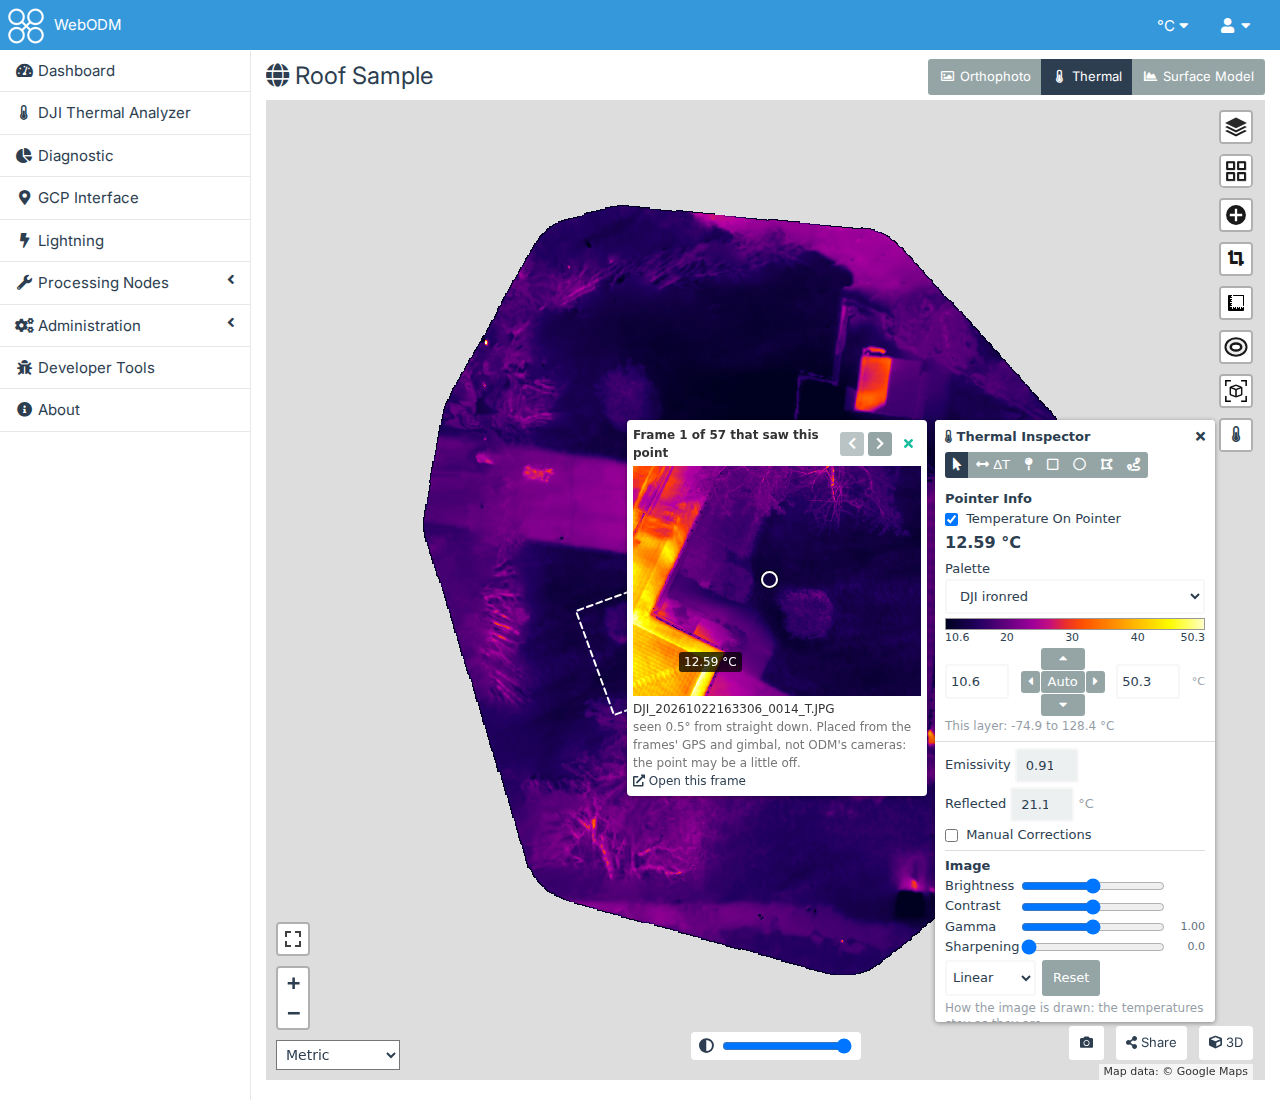
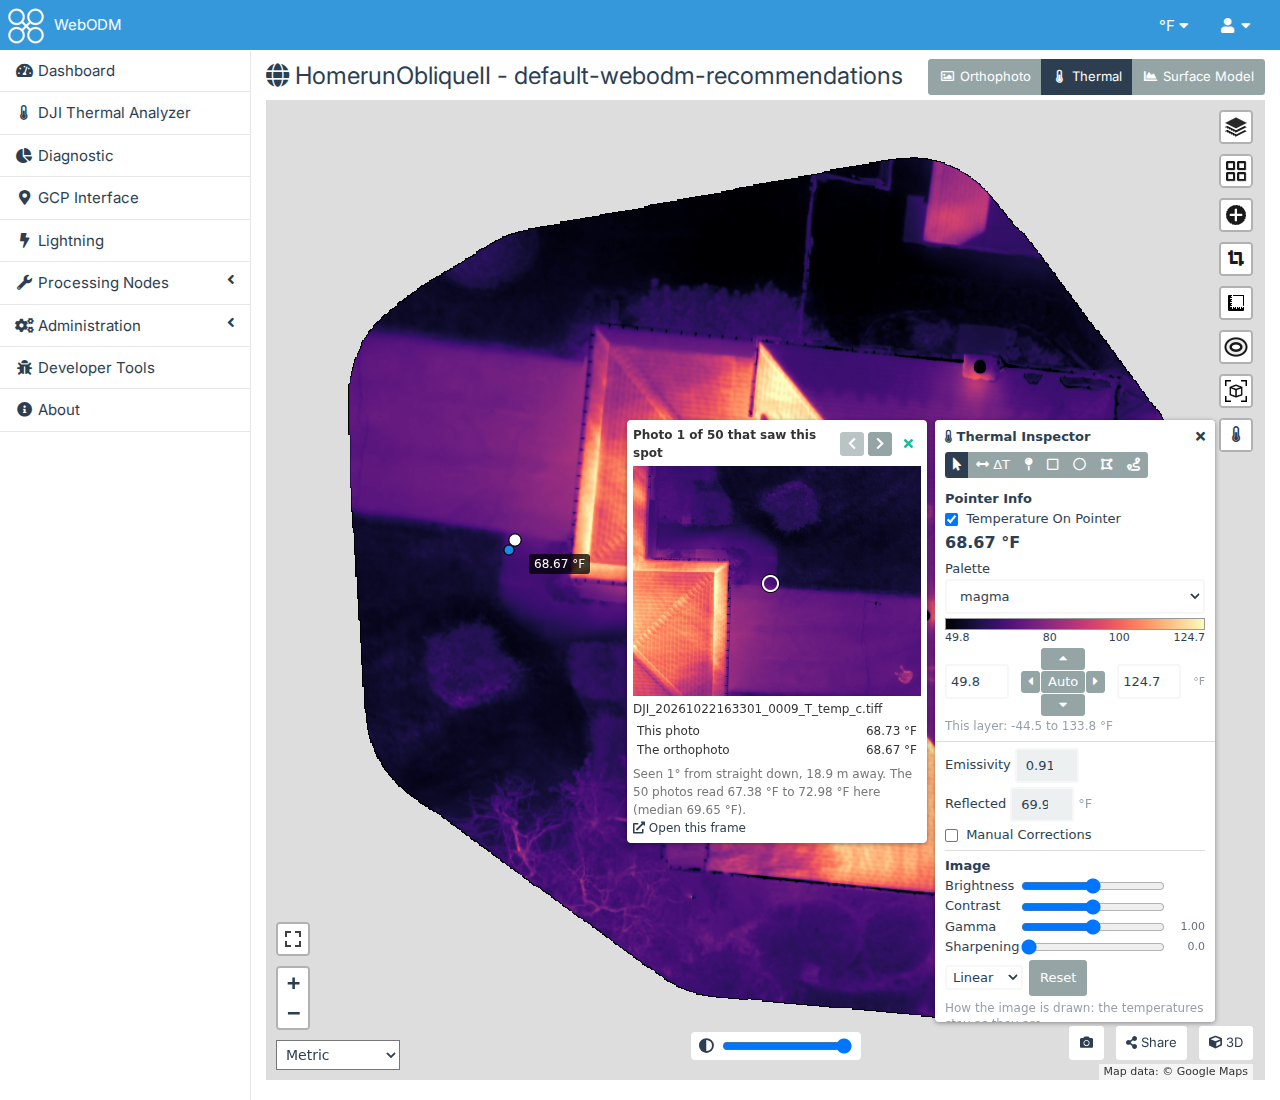
Docs: the map's photos window on a thermal orthophoto (README, the Inspector's quickstart and its screenshot, the API, the developers' guide)
The window's reading and its note each on their own line, so Open this frame is too.

diff --git a/dev/screenshots.js b/dev/screenshots.js
@@ -401,16 +401,18 @@ const SHOTS = {
         return p;
     },
     "inspector-frames": async (p, env) => {
-        // The frames that saw a point clicked on the map's thermal orthophoto (its task processed from a workset)
+        // The task's photos that saw a point clicked on the map's thermal orthophoto (ODM's cameras and surface model)
         await p.setViewportSize({width: SIZE.width, height: 1100});    // room for the window, down to Open this frame
         await p.goto(env.url + need(env, "DT_DOCS_MAP"));
         await p.waitForSelector(".dt-inspector-button", {timeout: 30000});
         await p.waitForTimeout(3000);
         await p.click(".dt-inspector-button");
         const map = await p.locator(".leaflet-container").first().boundingBox();
-        await p.mouse.click(map.x + map.width * 0.4, map.y + map.height * 0.55);
-        await p.waitForSelector(".dt-inspector-frames:not([hidden]) img", {timeout: 30000})
-            .catch(() => { throw new Error("no source frames: is DT_DOCS_MAP's task processed from a workset with mosaics?"); });
+        await p.mouse.click(map.x + map.width * 0.25, map.y + map.height * 0.45);   // left of the window: its marks show
+        const drawn = p.waitForResponse((r) => /\/inspector\/frames\/\d+\/values/.test(r.url()), {timeout: 60000});
+        await p.waitForSelector(".dt-inspector-frames:not([hidden]) canvas", {timeout: 30000})
+            .catch(() => { throw new Error("no photos window: has DT_DOCS_MAP's task ODM's cameras and a surface model?"); });
+        await drawn;
         await p.waitForTimeout(2000);
         return p;
     },

diff --git a/dji-thermal/public/frames3d.js b/dji-thermal/public/frames3d.js
@@ -114,9 +114,9 @@
             '<table class="table table-condensed dt-frames3d-figures"><tbody>' + rows.map(function (r) {
                 return "<tr><td>" + escapeHtml(r[0]) + '</td><td class="text-right">' + escapeHtml(r[1]) + "</td></tr>";
             }).join("") + "</tbody></table>" +
-            '<span class="ta-message">Seen ' + escapeHtml(angle) + ", " + Number(f.distance).toFixed(1) + " m away." +
+            '<div class="ta-message">Seen ' + escapeHtml(angle) + ", " + Number(f.distance).toFixed(1) + " m away." +
             (s && s.count > 1 ? " The " + s.count + " photos read " + escapeHtml(format(s.low)) + " to " + escapeHtml(format(s.high)) +
-                " here (median " + escapeHtml(format(s.median)) + ")." : "") + "</span>" + hiddenNote +
+                " here (median " + escapeHtml(format(s.median)) + ")." : "") + "</div>" + hiddenNote +
             (page ? '<a href="' + escapeHtml(page) + '" target="_blank" rel="noopener" data-pip="open" ' +
                 'title="The frame on its own page in the Analyzer: measure it, or measure it again with other parameters">' +
                 '<i class="fa fa-external-link-alt"></i> Open this frame</a>' : "") + "</div>";

diff --git a/docs/developing.md b/docs/developing.md
@@ -31,7 +31,7 @@ Everything the plugin ships is in `dji-thermal/` (the plugin's id, and the relea
 | `colouring.py` | How tiles and frames are drawn: range, gamma's curve, Banded's bands (`stepped=`), sharpening, isotherm. |
 | `frames.py`, `frames_api.py` | The frame page: one frame as the workset measured it, or measured again with other values. |
 | `conversion_tasks.py` | A WebODM task made from a workset's temperature TIFFs. |
-| `inspector.py`, `inspector_api.py` | The Thermal Inspector's reads of a task's thermal orthophoto (a point, a region, a line, tiles), and the workset mosaics it can lay on the map. |
+| `inspector.py`, `inspector_api.py` | The Thermal Inspector's reads of a task's thermal orthophoto (a point, a region, a line, tiles, the photos that saw a point: `frames3d.py`), and the workset mosaics it can lay on the map. |
 | `measurements.py` | Saved measurements (pins, regions, lines), kept with the task or the workset. |
 | `model3d.py`, `model3d_api.py`, `frames3d.py` | The 3D Thermal Inspector's reads of a task's textured model: which temperature TIFF is each of the GLB's materials, their values, the task's saved pins in the model's coordinates, and the photos that saw a point of it (see [The 3D view](#the-3d-view)). |
 | `correction.py` | The approximate correction for another emissivity and reflected temperature. |
@@ -70,8 +70,9 @@ Keep the work in plain functions that take data and return HTML strings or value
 | `regions.js` | Drawing shapes on a Leaflet map, and the measuring tools' list (`TOOLS`). |
 | `split.js`, `split.css` | A divider on a Leaflet map showing layers on one side of it, upright or across (the overlays' Swipe in the Inspector). Shared: it needs only Leaflet and knows nothing of this plugin, so another WebODM plugin can take both files as they are; its API is in its header (`create(L, map, opts)`, `add(layer, side)`, `turn()`, `on("change")`, the exported `clip`). TweakUI copies both files as they are: a change here is copied there. A plugin using it tells WebODM's split event (`sideBySideChanged(layer, true)` then `false`) each time its divider starts, and ends its own when it hears another's, so the dividers take turns. |
 | `scale.js`, `recolour.js`, `frames.js` | Shared by the mosaic viewer and the Inspector: colour scales, the range's D-pad and the Image controls, tiles coloured in the browser (each value tile fetched once for the layers drawn from it), and the window of the frames that saw a point. |
+| `frames3d.js` | The window of a task's own photos that saw a point, placed with ODM's cameras: for a thermal orthophoto on the map, and for the model on the 3D page (see [The 3D view](#the-3d-view)). |
 | `picture_viewer.js` | The full-page picture viewer. |
-| `mesh_index.js`, `model3d.js`, `pointcloud3d.js`, `pointcloud3d_worker.js`, `frames3d.js`, `inspector3d.js` | The 3D Thermal Inspector on WebODM's 3D page (see [The 3D view](#the-3d-view)). |
+| `mesh_index.js`, `model3d.js`, `pointcloud3d.js`, `pointcloud3d_worker.js`, `inspector3d.js` | The 3D Thermal Inspector on WebODM's 3D page (see [The 3D view](#the-3d-view)). |
 | `thermal/` | DJI Thermal Task's panel and the project page's workset progress: JSX and ES modules, built by WebODM's webpack into `public/build/` (untracked). |
 
 The pages' HTML is in `templates/`, and their styles in `analyzer.css`, `frames.css`, `inspector.css` and
@@ -86,14 +87,14 @@ temperatures themselves are in the float textures beside the OBJ (`odm_texturing
 | File | What it does |
 | --- | --- |
 | `model3d.py` | Which texture is each of the GLB's materials (the OBJ's first `usemtl` order, checked against the GLB's image sizes), their values (ODM's 0.0 fill between patches is no data; each material's PNG kept in `thermal/model3d/` by the textures' version), the model's range (cached in `thermal/model3d.json` by the textures' version), and the saved 2D pins in the model's coordinates. |
-| `frames3d.py` | The photos that saw a point: ODM's refined cameras (`odm_report/shots.geojson`, `cameras.json`), a point projected into each photo as OpenSfM does (`project`: the `brown` and `perspective` lenses), each photo's temperature at its pixel, ranked by the angle from the surface's normal; and, for a task made from a workset, each photo's frame in the dataset. |
+| `frames3d.py` | The photos that saw a point: ODM's refined cameras (`odm_report/shots.geojson`, `cameras.json`), a point projected into each photo as OpenSfM does (`project`: the `brown` and `perspective` lenses), each photo's temperature at its pixel, ranked by the angle from the surface's normal; and, for a task made from a workset, each photo's frame in the dataset. For a point of the 2D map (`frames_on_map`): its height from the surface model (`odm_dem/dsm.tif`, a window of it), the photos ranked from straight down, those the surface hides left out by a line of sight over it (`sight_blocked`, `SIGHT_CLEARANCE`) and counted. |
 | `model3d_api.py` | `inspector/model`, `.../model/<index>/values` (the 2D map's value tiles, one per material), `.../model/saved`, `.../model/frames` and `.../model/frames/<index>/values`. |
 | `main.js` | `PluginsAPI.ModelView.addActionButton`: loads `NAMES` and `NAMES_3D` (`DjiThermal3DScripts`) and the stylesheets (`inspector.css`, `frames.css`, `inspector3d.css`), then `ThermalInspector3D.create(viewer)`; the thermometer button once it resolves. The hook answers at once, with no dependencies: WebODM keeps only the first plugin's answer. |
 | `inspector3d.js` | The panel, the tools (`TOOLS`, `TOOL_ORDER`), the measurements (in `localStorage`) and their markers (DOM elements and SVG lines, placed over the view each frame). It reuses `inspector.js`'s exported helpers for the colour scale, Image, Manual Corrections, the isotherm and the legend. |
 | `model3d.js` | The model as a **source**: fetches each material's values, finds WebODM's model in the scene (`findModel`, `matchMaterials`) and gives it a canvas texture in the palette; reads a hit's temperature (`reading`). On the point cloud view, it loads its own copy of WebODM's smallest GLB, for its shapes only (`meshes()`). |
 | `mesh_index.js` | A bounding-volume tree over the model's triangles (`build`): `raycast` (where the pointer meets the model) and `closest` (the nearest surface to a point). Runs in a page or a worker. |
 | `pointcloud3d.js`, `pointcloud3d_worker.js` | The point cloud as a source: each node Potree loads goes to the worker, which finds every point's nearest model surface within `LIMIT` (25 cm) and answers its material and texture coordinates; the points are then coloured from the model's values, and restyled without asking again. A node's points are placed as Potree places them (`nodeMatrix`: the cloud's matrix times the node's own), never with three.js's `updateMatrixWorld`, which would add its parents' positions again. |
-| `frames3d.js` | The photos that saw a spot, beside the panel (the 2D source frames window's markup and `frames.css`): leaves out those the model hides the spot from (`hidden`: a ray from just off the surface to the camera, with `MeshIndex.raycast`), shows each in the palette from its values with a crosshair, and what all of them read there (`spread`). Its camera is marked in the view by `inspector3d.js`. |
+| `frames3d.js` | The photos that saw a spot, beside the panel (the 2D source frames window's markup and `frames.css`): leaves out those the model hides the spot from (`hidden`: a ray from just off the surface to the camera, with `MeshIndex.raycast`), shows each in the palette from its values with a crosshair, and what all of them read there (`spread`). Its camera is marked in the view by `inspector3d.js`. `inspector.js` makes the same window for a point of a thermal orthophoto on the map, with its own URLs and words (`create`'s `framesUrl`, `valuesUrl`, `words`): there the server leaves the hidden photos out. |
 
 How a hover becomes a temperature: `inspector3d.spotAt` casts a ray from the pointer with `MeshIndex.raycast` (on the
 point cloud: the point Potree picks, then `MeshIndex.closest`), which gives the hit's material and texture

diff --git a/docs/quickstart-inspector.md b/docs/quickstart-inspector.md
@@ -159,19 +159,35 @@ has no thermal orthophoto but another in the project does, the Inspector's butto
 
 ## 6. The frames that saw a point
 
-On a workset mosaic, or on the orthophoto of a task processed from a workset whose mosaics are built, a click in
-**Hover** opens the frames that saw that point, beside the panel. Dropping a pin, or clicking a pin's name in the
-panel, opens them too.
+On a thermal orthophoto or a workset mosaic, a click in **Hover** opens the photos that saw that point, beside the
+panel. Dropping a pin, or clicking a pin's name in the panel, opens them too.
 
-![The frames that saw a point clicked on a thermal orthophoto processed from a workset](images/inspector-frames.png)
+![The photos that saw a point clicked on a thermal orthophoto](images/inspector-frames.png)
 
-- The frame is drawn in the layer's palette and range, with a circle on the point; its outline is dashed on the map.
-- The arrows step through every frame that saw the point. On a mosaic, the frame its pixel came from is first. On an
-  orthophoto, ODM blended the frames, so they start with the one that saw the point closest to straight down.
-- On an orthophoto the frames are placed with the workset's camera models, from their GPS and gimbal, not the cameras
-  ODM refined: the point can be a little off.
-- **Open this frame** opens the frame on its own page in the Analyzer, in a new tab, to measure it in its pixels or
-  measure it again with other values: see [One frame at a time](quickstart-worksets.md#one-frame-at-a-time).
+On a thermal orthophoto, they are the task's own photos, placed with the cameras ODM refined when it processed the
+task, at the height of the task's surface model, so the circle is on the very pixel:
+
+- The photo is drawn in the orthophoto's palette, range and Image settings, with a circle on the point. On the map,
+  the point is marked, with a dashed line to where the photo shown was taken from.
+- Below it: **This photo**'s temperature at the point, **The orthophoto**'s (ODM blended it from several photos),
+  how far from straight down and from how far the photo saw the point, and what all the photos read there (lowest,
+  highest and median). Manual Corrections apply to them all.
+- The arrows step through every photo that saw the point, starting with the one closest to straight down.
+- Photos that had the point in view but from which the surface hides it (behind a roof's edge, a wall, a tree) are
+  left out, and the window says how many.
+- **Open this frame**, when the task was processed from a workset's TIFFs, opens the frame on its own page in the
+  Analyzer, in a new tab, to measure it in its pixels or measure it again with other values: see
+  [One frame at a time](quickstart-worksets.md#one-frame-at-a-time).
+
+A task processed without a surface model (ODM's `dsm` option off) or without ODM's cameras can't place its photos so:
+if it was processed from a workset whose mosaics are built, the window shows the workset's frames instead, placed
+from their GPS and gimbal (the point can be a little off, and the window says so); otherwise the click is WebODM's.
+
+On a workset mosaic, the window is the mosaic viewer's: the workset's frames drawn in the mosaic's palette and range,
+the frame the mosaic's pixel came from first, each one's outline dashed on the map, and **Open this frame**.
+
+On both:
+
 - Drag it by its heading to move it on its own: it stays where you drop it, even as the panel moves, until it's
   closed. Opened again, it's beside the panel.
 - The cross closes the window; closing the Inspector closes it too.

diff --git a/docs/api.md b/docs/api.md
@@ -68,8 +68,10 @@ On a task with a thermal orthophoto, under `projects/<project>/tasks/<task>/insp
 | --- | --- | --- |
 | GET | `point?lon=&lat=` | The temperature at a point (°C), or why there's none; `difference`: the temperature less the median of the pixels within about 2 m around it (inside the crop). |
 | POST | `region` | The statistics and histogram of a GeoJSON polygon, or of a line (a strip 0.25 m either side, with its length and profile), with the surroundings' mean and ΔT; `isotherm: {low, high}` (°C, either null) adds the share of its pixels within them; `correction: {emissivity, reflected}` (°C) corrects the temperatures first, from what the orthophoto's TIFFs record (refused when they don't). Nothing is kept. The mosaics' `region` takes the same. With `shape: "delta"` and a line of two points, a ΔT instead: `{valid, reason, first, second, delta_t, reasons, length, measured, correction}`, each spot (°C) read as a pin reads it, corrected, `delta_t` the second less the first, `reasons` why each spot has no temperature, `length` in metres. |
-| GET, POST | `measurements` | The measurements saved on the task's orthophoto, with what it was measured with (`baseline`: `{emissivity, reflected}` or null), whether you can change them (`can_change`) and the palette it opens in for a user without one of their own (`palette`, chosen in DJI Thermal Task, or `""`); saves one (`{name, comment, shape, geometry, circle, isotherm, correction}`: a pin's `geometry` a point, a `delta`'s a line of two points), measured on the server. |
+| GET, POST | `measurements` | The measurements saved on the task's orthophoto, with what it was measured with (`baseline`: `{emissivity, reflected}` or null), whether you can change them (`can_change`) the palette it opens in for a user without one of their own (`palette`, chosen in DJI Thermal Task, or `""`) and whether the photos that saw a point of it can be told (`photos`: see `frames`); saves one (`{name, comment, shape, geometry, circle, isotherm, correction}`: a pin's `geometry` a point, a `delta`'s a line of two points), measured on the server. |
 | PATCH, DELETE | `measurements/<id>` | Renames a saved measurement or changes its comment (`{name, comment}`); deletes it. |
+| GET | `frames?lon=&lat=` | The task's photos that saw a point of the map, placed with the cameras ODM refined at the height of the task's surface model (`odm_dem/dsm.tif`), from the one closest to straight down, as `model/frames` gives them, each with its camera's `lonlat`; `hidden`: how many more had the point in view but are hidden from it by the surface; `orthophoto`: the orthophoto's temperature there (°C, or null); `workset` as `model/frames`. No frames where the surface model has no height. 404 without ODM's cameras or a surface model (`measurements` says so beforehand: `photos`). |
+| GET | `frames/<index>/values` | One photo's temperatures (°C), as `model/frames/<index>/values`. |
 | GET | `tiles/<z>/<x>/<y>` | The orthophoto drawn in a palette (`palette=`: one of DJI's or WebODM's colour maps) over `rescale=` (°C), with WebODM's `size` and `crop` and the mosaics' adjustments (`gamma`, `stepped=width,origin` in °C, and `sharpen`). |
 | GET | `values/<z>/<x>/<y>` | The values (°C) a tile is drawn from, with WebODM's `size` and `crop`, as the mosaics' `values` (its ETag is the orthophoto's version). |
 | GET | `curve?rescale=` | How the tiles share the palette out over the range with `gamma`, for the legend. |

diff --git a/README.md b/README.md
@@ -501,13 +501,17 @@ orthophotos only, but for one the Analyzer's **Open on WebODM's map** opened, wi
   and a horizontal divider alike); a ΔT across the divider compares the two layers.
   A map without temperatures shows the
   Inspector's button when the project has another task's thermal orthophoto to lay.
-- **Source frames**: a click in Hover (or a pin dropped, or a pin's name clicked in the panel) on a workset mosaic, or
-  on the orthophoto of a task processed from a workset whose mosaics are built, opens the window of the frames that
-  saw that point beside the panel, as in the mosaic viewer: one at a time with a crosshair on the point, its outline
-  on the map, drawn in the layer's palette and range. On a mosaic, its own frame comes first; on an orthophoto, the
-  one that saw the point closest to straight down, placed with the workset's camera models (from the frames' GPS and
-  gimbal, not ODM's refined cameras, so the point can be a little off), and **Open this frame**: the frame page, in a
-  new tab. Elsewhere a click in Hover is still WebODM's (its popup).
+- **Source frames**: a click in Hover (or a pin dropped, or a pin's name clicked in the panel) on a thermal
+  orthophoto or a workset mosaic opens the window of the photos that saw that point beside the panel, one at a time
+  with a crosshair on the point. On a thermal orthophoto they are the task's own photos, placed with the cameras ODM
+  refined at the height of the task's surface model (so on the very pixel), as on the 3D view: each drawn in the
+  orthophoto's palette and range, with its temperature there, the orthophoto's and what all the photos read, from the
+  one closest to straight down; those the surface hides the point from are left out and counted; the photo shown is
+  marked on the map by where it was taken from, with a line to the point; **Open this frame** (the frame page, in a
+  new tab) when the task came from a workset. A task without a surface model (`dsm` off) or ODM's cameras shows
+  instead, when it was processed from a workset whose mosaics are built, the workset's frames placed from their GPS
+  and gimbal (the point can be a little off). On a mosaic, the window is the mosaic viewer's, the mosaic's own frame
+  first, its outline on the map. Elsewhere a click in Hover is still WebODM's (its popup).
 
 Temperatures are read from the orthophoto or mosaic on the server (the plugin's own API, for those who can view the
 task or project) and shown in your temperature unit (the °C / °F menu at the top of the page), the same setting as
